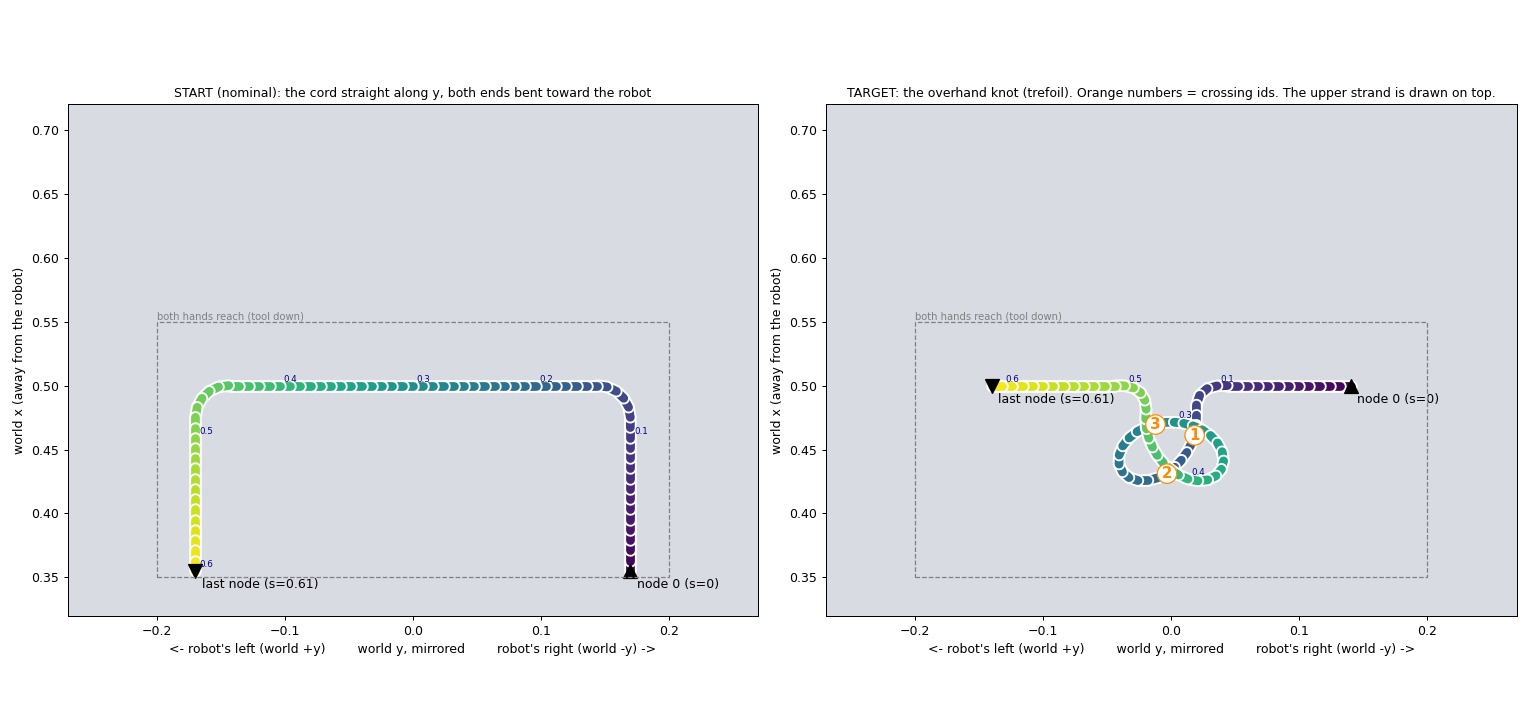
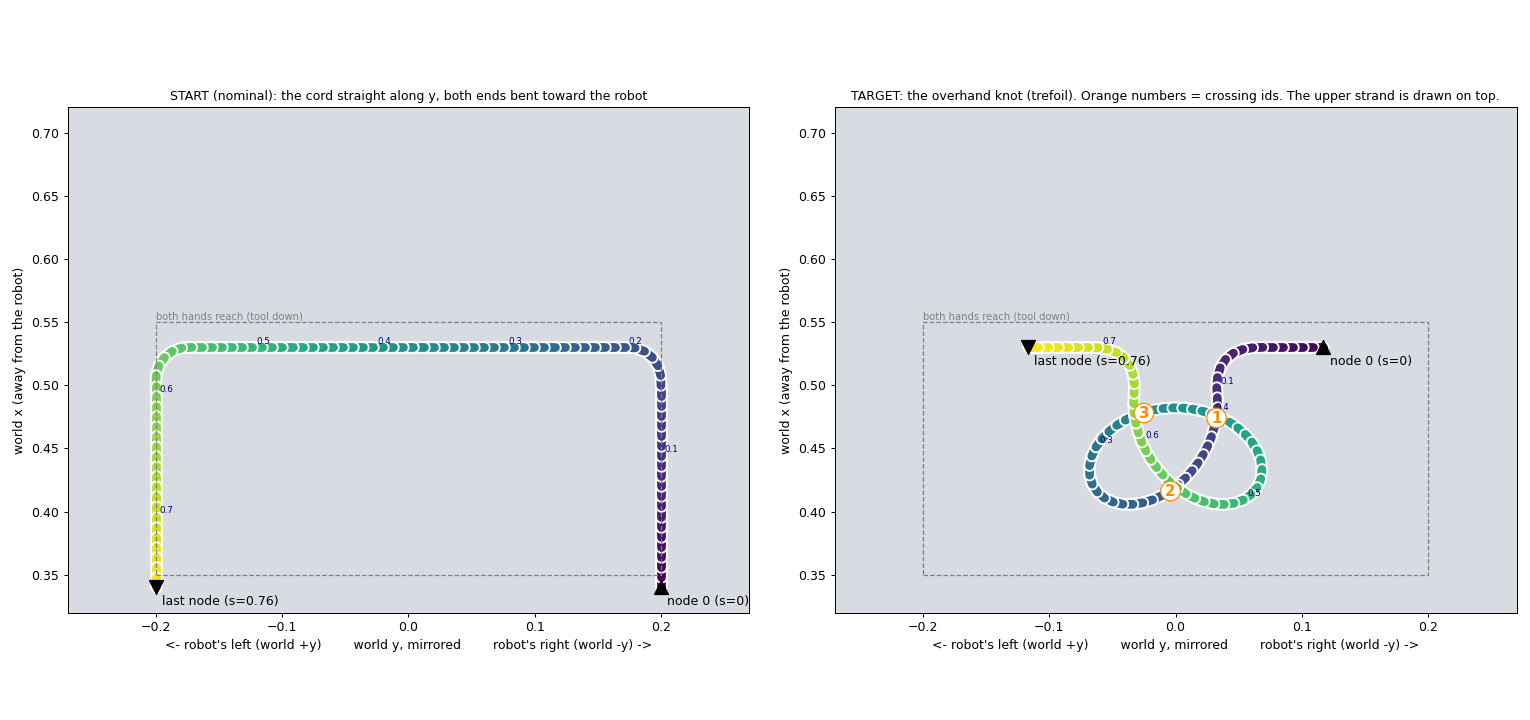
harness: the overhand brief carries the rehearsal evidence and the clip's procedure; refiners aim at the crossing steps when a graph finishes untied

diff --git a/harness/strategy.py b/harness/strategy.py
@@ -24,6 +24,14 @@ def focuses(stats: dict, report: dict, k: int) -> list[str]:
             reasons.setdefault(key, []).append(f"{why} ({m}x)")
     ranked = sorted(groups.items(), key=lambda kv: -kv[1])
     out = []
+    finished_wrong = sum(m for key, m in ranked if ("verify" in key and "untied" in key) or key == "wrong diagram")
+    if finished_wrong >= 0.5 * n:
+        # The graph runs to the end but the rope is not knotted: aim at the steps that make the crossings.
+        return [
+            f"THREADING: in {finished_wrong}/{n} episodes the graph ran to the end without the knot. The bimanual under-crossing (the free end passed UNDER the lifted strand) is the step that never works: look at what the thread step's calls did, where the end and the lifted strand really were (rope.point / rope.state in the traces, and the pictures), and make it reliably produce the under-crossing; check it right after and retry if it came out over or missing.",
+            f"LOOP AND OVER-CROSSING: in {finished_wrong}/{n} episodes the knot was not made. Most end with 0-2 crossings, so the loop (the end crossing OVER the standing part) does not reliably form before the thread. Make the steps before the thread produce exactly the loop the thread needs (verify the crossing appears with the right over/under, adjust and retry), and leave the end lying flat where the thread step can take it.",
+            "STRATEGY: tie it the way the person in the clip does (docs/img/video_storyboard.jpg): make a big loop by crossing the end over the standing part, pass the end through the loop from below, pull both ends. Only the topology counts (either handedness), not the reference shape. Replace exact point-by-point laying where a coarser, more robust motion does the job, keeping the graph's subgraph interface so the parent routing still fits.",
+        ][:k] + ["ROBUSTNESS: look at which variants fail and make the graph adapt to them"] * max(0, k - 3)
     if ranked:
         top, m = ranked[0]
         why = "; ".join(reasons.get(top, [])[:4])

diff --git a/harness/selflearn.py b/harness/selflearn.py
@@ -284,8 +284,9 @@ def main() -> None:
                 ws = codex_agent.prepare(cd / "ws", best)
                 if variants.KNOT == "overhand":  # the refiners read this task's brief, not the double coin's
                     shutil.copy2(ROOT / "harness" / "docs" / "TASK_overhand.md", ws / "docs" / "TASK.md")
-                    if (ROOT / "harness" / "docs" / "img" / "overhand_start_and_target.png").exists():
-                        shutil.copy2(ROOT / "harness" / "docs" / "img" / "overhand_start_and_target.png", ws / "docs" / "img" / "start_and_target.png")
+                    for src, dst in (("overhand_start_and_target.png", "start_and_target.png"), ("overhand_storyboard.jpg", "video_storyboard.jpg")):
+                        if (ROOT / "harness" / "docs" / "img" / src).exists():
+                            shutil.copy2(ROOT / "harness" / "docs" / "img" / src, ws / "docs" / "img" / dst)
                 shutil.copy2(itd / "incumbent" / "REPORT.md", ws / "docs" / "REPORT.md")
                 shutil.copy2(run / "HISTORY.md", ws / "docs" / "HISTORY.md")
                 pics = evidence(itd / "incumbent", ws / "evidence", rep["episodes"])

diff --git a/harness/docs/TASK_overhand.md b/harness/docs/TASK_overhand.md
@@ -13,23 +13,25 @@ The overhand knot is the first knot in every knot-tying tutorial, Chinese knotti
 - **Robot**: the YAM bimanual pair. `arm_id 0` = left arm (world +y side), `arm_id 1` = right arm (world -y side). Each has a parallel-jaw gripper with a 95 mm span; the fingertips reach 12.1 mm past the tool centre.
 - **Frames**: every tool takes and returns WORLD coordinates in metres. The bench top is z = 0.75; its centre is world (0.6, 0, 0.75). World +x points away from the robot; +y is the robot's left.
 - **Reach**: tool-down at bench height, IK reliably reaches world x ∈ [0.35, 0.55] and y ∈ [-0.20, +0.20]. This is guidance: attempt capped moves at the edge and judge them by their outcome.
-- **Rope**: a 10 mm cord, 0.61 m long, 77 nodes 8 mm apart, with self-contact. It is soft, and friction is high (`mu_cable` ~1.0: a cord laid on a foam board stays put). Arc length s runs from node 0 (s = 0, the robot's RIGHT end) to the last node (s ≈ 0.61, the LEFT end).
-- **Start**: the cord lies straight along world y at x ≈ 0.50 for |y| ≤ 0.17, both ends bent toward the robot to x ≈ 0.355. Everything lies flat and inside reach.
-- **Target**: `rope.layout()` gives `target_nodes`, where every node belongs in the tied knot for this episode. The tails run along y on the start's line; the knot sits toward the robot of it (world x ≈ 0.43–0.48).
+- **Rope**: a 10 mm cord, 0.76 m long, 96 nodes 8 mm apart, with self-contact. Its stiffness comes from a Real2Sim of the source clip on RoboSimStudio's live page (`video/overhand/REAL2SIM.md`): E = 2e4 Pa matched the clip's settled loose knot. Friction is high (`mu_cable` ~1.0: SuperDex uses one friction for strands, pads and bench, and a grip needs it). Arc length s runs from node 0 (s = 0, the robot's RIGHT end) to the last node (s ≈ 0.76, the LEFT end).
+- **Start**: the cord lies straight along world y at x ≈ 0.53 for |y| ≤ 0.20, both ends bent toward the robot to x ≈ 0.34. Everything lies flat, at or inside the edge of reach. This is the Howcast clip's first frame (the rope straight on the table).
+- **Target**: `rope.layout()` gives `target_nodes`, a reference knot about 15 cm across for this episode. Its tails run along y on the start's line; the knot sits toward the robot of it (world x ≈ 0.41–0.53). Success does NOT require matching this shape, only the topology (below).
 
   The 3 crossings, numbered by where strand A (the earlier along the rope) meets them:
 
   | crossing | strand A at s | strand B at s | strand A is |
   |---|---|---|---|
-  | 1 | 0.146 | 0.323 | under |
-  | 2 | 0.188 | 0.416 | over |
-  | 3 | 0.281 | 0.458 | under |
+  | 1 | 0.126 | 0.412 | under |
+  | 2 | 0.194 | 0.561 | over |
+  | 3 | 0.344 | 0.629 | under |
 
   Walking from node 0 the Gauss code is `1U 2O 3U 1O 2U 3O` (the trefoil).
 
 ## Success and score
 
-- **Success**: the rope's diagram seen from above has exactly the target Gauss code (`rope.state()["tied"]`), held for 1 s, before the step budget (9000 control steps, 150 s of scene time) runs out.
+- **Success**: the rope's diagram seen from above is an overhand knot of either handedness, held for 1 s, before the step budget (12000 control steps, 200 s of scene time) runs out.
+  - An overhand knot here means three crossings met along the rope as 1 2 3 1 2 3, alternately over and under. The reference above is `1U 2O 3U 1O 2U 3O`; its mirror `1O 2U 3O 1U 2O 3U` counts too.
+  - `rope.state()["tied"]` reports exactly this.
 - **Second objective**: cycle time, the scene seconds to success. A control step costs ~0.1 s of wall time.
 
 ## What varies between episodes (read positions at run time)
@@ -38,6 +40,20 @@ The overhand knot is the first knot in every knot-tying tutorial, Chinese knotti
 - Friction: `mu_cable` 0.6–1.4.
 - Axial stiffness: 200–450 N.
 - Where the cord lies: its line shifted ±1 cm in x and ±1.5 cm in y, turned up to ±4.6°, with a lateral wiggle up to 6 mm.
+
+## What the baseline graph does now (rehearsal evidence, 45 episodes)
+
+The baseline lays the rope point by point to the reference knot (`knotlab.plan.lay_plan`), with one `thread` step. It runs all its phases, but 0 of 45 episodes tied the knot:
+- **Most end with 0–2 crossings.** The loop and the over-crossing do not reliably form, because placements land ~2–3 cm off.
+- **The thread step never once put the end UNDER the lifted strand.**
+- **The two episodes with 3 crossings were wrong**: `1O 2O 3O 1U 2U 3U` (the end laid over everything) and `1O 2U 3U 3O 2O 1U` (a loop inside a loop).
+
+How a person ties it in the clip (`docs/img/video_storyboard.jpg`, the Howcast clip):
+1. Make a loop by crossing the end over the standing part.
+2. Pass the end through the loop from below.
+3. Pull both ends.
+
+Any method that ends in the overhand topology is fine; the reference shape is only a guide.
 
 ## The baseline graph and the laying plan
 
